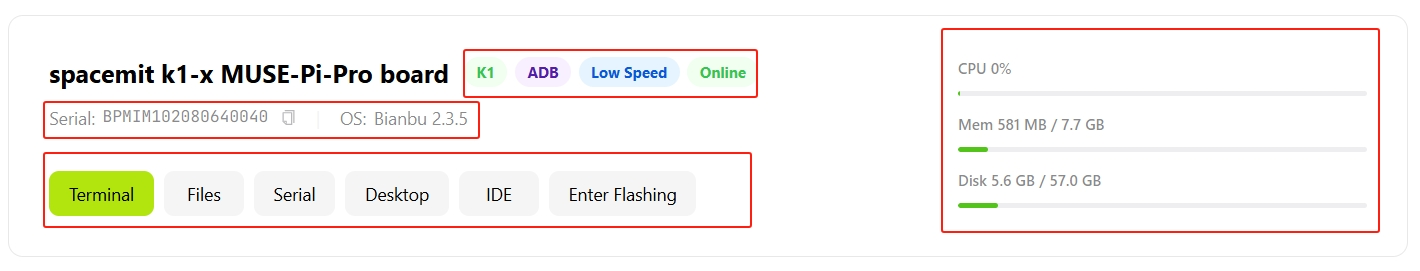
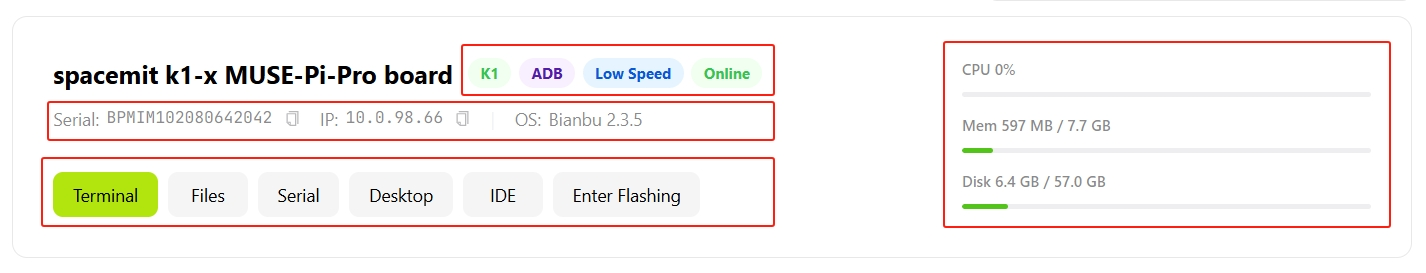
docs(studio): update guides and screenshots

diff --git a/en/studio/user_guide/dev_tools/flash.md b/en/studio/user_guide/dev_tools/flash.md
@@ -121,7 +121,7 @@ Writes a system image to an SD card, allowing the device to boot from the card. 
 
    ![Select SD card](../../static/sdcard_1.png)
 
-   > If the list is empty, confirm the SD card is inserted and click the refresh button to re-detect.
+   > If the list is empty, confirm the SD card is inserted and click the refresh button ⟳ to re-detect.
 
 3. **Flash Boot Card** is selected by default under **Select Operation**.
 
@@ -176,3 +176,59 @@ The procedure is the same as [SD Card Boot](#sd-card-boot), with the following d
 | System storage location | SD card | Device onboard storage |
 | Behavior after SD card removal | Cannot boot | Operates normally |
 | Typical use case | Debugging, evaluation | Mass production |
+
+## Writing Tool
+
+Writes factory configuration information, such as serial numbers and MAC addresses, to a device. Use it for production-line configuration or to verify information on an individual device.
+
+### Writing Tool Procedure
+
+1. Go to **Development Tools → Key Writing Tool**.
+
+   ![Writing Tool entry](../../static/key_write_00.png)
+
+2. Select the target device.
+
+   In the **Select Device** drop-down list, select the device to configure.
+
+   ![Select Device](../../static/key_write_01.png)
+
+   > If the list is empty, confirm that the device is connected and in flashing mode, then click the refresh button ⟳ on the right to scan again.
+
+3. (Optional) Configure fields.
+
+   To customize the fields displayed in the table, click **Configure Fields** to open the field configuration panel. In the panel, you can:
+
+   ![Configure Fields](../../static/key_write_03.png)
+
+   - Use the **Enabled** switch to control whether a field is shown in the table.
+   - Click the edit icon **✎** to change a field's description or storage medium.
+   - Click the delete icon **🗑** icon to remove a field.
+   - Click **Add Field** to add a custom field.
+   - Click **Restore Default** to restore the default field list.
+
+   Click **Save** to apply the changes, or **Cancel** to discard them.
+
+4. Read the current device configuration.
+
+   Click **Start Reading**. The tool reads all configuration fields from the device and fills the table.
+
+   ![读号](../../static/key_write_02.png)
+
+   After the read operation completes, the table displays the following columns:
+
+   - **Property**: Technical identifier for the field, such as `product_name` or `serial#`.
+   - **Description**: Readable description of the field.
+   - **Storage Medium**: Storage location; `eeprom` is the default.
+   - **Value**: Current value stored on the device.
+   - **Status**: Result of the read operation, showing success (✓) or failure (✗).
+
+   Common fields include the hardware board model, device serial number, MAC address, and manufacturing date. The refresh button ⟳ beside each field reads that field again.
+
+5. Edit and write configuration.
+
+   Edit the required values in the **Value** column, select the check box for each field to write, then click **Start Writing**.
+
+   After the write operation completes, the **Status** column shows the result for each field.
+
+   > After writing, click **Start Reading** again to verify that the configuration was written correctly.

diff --git a/zh/studio/user_guide/dev_tools/flash.md b/zh/studio/user_guide/dev_tools/flash.md
@@ -121,7 +121,7 @@ sidebar_position: 1
 
    ![选择 SD 卡设备](../../static/sdcard_1.png)
 
-   > 若列表为空，请确认 SD 卡已插入读卡器，并点击右侧刷新按钮重新检测。
+   > 若列表为空，请确认 SD 卡已插入读卡器，并点击右侧刷新按钮 ⟳ 重新检测。
 
 3. 在 **选择操作** 中已默认选择 **烧录启动卡**
 
@@ -176,3 +176,61 @@ sidebar_position: 1
 | 系统运行位置 | SD 卡 | 设备内置存储 |
 | 拔卡后 | 无法启动 | 正常运行 |
 | 适用场景 | 调试、试用 | 批量生产 |
+
+## 写号工具
+
+向设备写入序列号、MAC 地址等出厂配置信息，适用于产线批量配置或单台设备信息校验。
+
+### 写号工具 — 操作步骤
+
+1. 进入 **开发工具 → 写号工具**
+
+   ![写号工具入口](../../static/key_write_00.png)
+
+2. 选择目标设备
+
+   在 **选择设备** 下拉菜单中选择需要配置的设备。
+
+   ![选择设备](../../static/key_write_01.png)
+
+   > 若列表为空，请确认设备已连接并切换至刷机模式，然后点击右侧刷新按钮 ⟳ 重新检测。
+
+3. （可选）配置字段
+
+   如需自定义表格中显示的属性字段，点击 **配置字段** 进入字段配置面板。
+
+   ![配置字段](../../static/key_write_03.png)
+
+   在配置面板中可以：
+   
+   - 通过 **启用** 开关控制各属性是否在表格中显示
+   - 点击每行右侧的编辑图标 **✎** 修改属性的描述或存储介质
+   - 点击删除图标 **🗑** 移除该字段
+   - 点击 **新增字段** 添加自定义属性
+   - 点击 **恢复默认** 将字段列表恢复为系统默认配置
+
+   配置完成后点击 **保存**，或点击 **取消** 放弃修改。
+
+4. 读取设备当前配置
+
+   点击 **开始读号**，工具将从设备读取所有配置字段并填充到表格中。
+
+   ![读号](../../static/key_write_02.png)
+
+   读取完成后，表格显示以下五列信息：
+
+   - **属性**：字段的技术标识符（如 `product_name`、`serial#`）
+   - **描述**：字段的说明（如"硬件板型号""设备序列号"）
+   - **存储介质**：存储位置，默认为 `eeprom`
+   - **值**：设备中当前存储的值
+   - **状态**：读取结果，显示成功（✓）或失败（✗）
+
+   常见属性包括硬件板型号、设备序列号、网卡物理地址、生产日期等出厂信息。每个属性右侧提供单独的刷新按钮 ⟳，可单独重新读取该字段的值。
+
+5. 编辑并写入配置
+
+   在表格的 **值** 列中编辑需要修改的属性值，勾选对应行的复选框，然后点击 **开始写号**。
+
+   写入完成后，**状态** 列会显示各字段的写入结果。
+
+   > 建议写入完成后再次点击 **开始读号** 进行校验，确认配置已正确写入设备。

diff --git a/en/studio/user_guide/app_store.md b/en/studio/user_guide/app_store.md
@@ -4,8 +4,57 @@ sidebar_position: 7
 
 # App Center
 
-> Note: This feature is under development.
-
 ## Overview
 
-App Center provides browsing, installation, and management of applications and tools for the SpacemiT platform.
+App Center supports the browsing, installation, and management of applications and tools for the SpacemiT platform. It is organized into the **Online Store** and **Installed Apps** pages.
+
+![App Center](../static/app_store.png)
+
+## Online Store
+
+The Online Store displays all available applications in the ecosystem.
+
+A search box in the upper-right corner enables apps to be located by name.
+
+Each app card displays the following information:
+
+- App name and version
+- Publisher
+- Summary
+- Installation status, such as **Installed** or **Running**
+
+Selecting an app card displays its details in the panel on the right, including:
+
+![Online Store](../static/app_store_00.png)
+
+- App icon, name, and current status, such as **Running**
+- Version, publisher, and package size
+- Action buttons: **Open** / **Uninstall** for installed apps, or **Install to device** for apps that are not installed
+- Complete feature description
+- Supported systems and architectures
+
+## Installed Apps
+
+The Installed Apps page lists and manages all applications currently installed on the device.
+
+![Installed Apps](../static/app_store_01.png)
+
+Select **Refresh** to retrieve the latest status for each app.
+
+The list contains the following columns:
+
+- **App**: App name and summary
+- **Version**: Currently installed version
+- **Architecture**: Runtime architecture
+- **Status**: Runtime status, such as **Running**, **Installed**
+- **Port / Access**: Service listening port or access point
+- **Actions**: Actions available for the app
+
+The available actions for each app depend on its running status:
+
+- **Stop**: Stop a running app
+- **Open**: Access the app in a browser or window
+- **Config**: Modify the app configuration
+- **Default**: Restore the default configuration
+- **Uninstall**: Remove the app from the device
+s

diff --git a/zh/studio/user_guide/app_store.md b/zh/studio/user_guide/app_store.md
@@ -4,8 +4,56 @@ sidebar_position: 7
 
 # 应用中心
 
-> 注：持续开发中...
-
 ## 概述
 
-应用中心提供适配 SpacemiT 平台的应用和工具的浏览、安装与管理功能。
+应用中心提供适配 SpacemiT 平台的应用和工具的浏览、安装与管理功能，分为 **在线商店** 和 **已安装应用** 两个页面。
+
+![应用中心](../static/app_store.png)
+
+## 在线商店
+
+在线商店展示所有可用的生态应用。
+
+界面右上角提供搜索框，可按应用名称快速定位。
+
+每个应用卡片显示以下信息：
+
+- 应用名称与版本
+- 发布者
+- 简介摘要
+- 安装状态（如 **已安装**、**运行中**）
+
+点击应用卡片后，右侧面板显示该应用的详情，包括：
+
+![在线商店](../static/app_store_00.png)
+
+- 应用图标、名称、当前运行状态（如 **运行中**）
+- 版本、发布者、包大小
+- 操作按钮：**打开** / **卸载**（已安装应用）或 **安装到设备**（未安装应用）
+- 完整功能描述
+- 支持的系统和系统
+
+## 已安装应用
+
+已安装应用页面以列表形式管理当前设备上的所有已安装应用。
+
+![在线商店](../static/app_store_01.png)
+
+点击 **⟳ 刷新** 可重新获取各应用的最新状态。
+
+列表包含以下列：
+
+- **应用**：应用名称与简介
+- **版本**：当前安装版本
+- **架构**：运行架构
+- **状态**：运行状态（如 **运行中**，**已安装**）
+- **端口 / 访问**：服务监听端口或访问入口
+- **操作**：可对该应用执行的操作
+
+每个应用的可用操作视运行状态而定：
+
+- **停止**：停止正在运行的应用
+- **打开**：在浏览器或窗口中访问应用
+- **配置**：修改应用配置
+- **默认配置**：恢复默认配置
+- **卸载**：从设备卸载该应用

diff --git a/en/studio/user_guide/devices.md b/en/studio/user_guide/devices.md
@@ -49,6 +49,7 @@ After a device is connected successfully, the home page displays detailed inform
 After a device is connected successfully, the following information is available:
 
 - Device series and serial number
+- Device IP address (for remote access)
 - Currently installed operating system, such as Bianbu
 - Device connection method, such as ADB
 - Online/offline status
@@ -63,7 +64,7 @@ The bottom of the device panel provides shortcut buttons for common operations:
 - **[Terminal](./terminal.md#terminal-sessions)**: Opens a terminal session for the device
 - **[Files](./terminal.md#file-management)**: Opens device file management
 - **[Serial Connection](./dev_tools/system_tools.md#serial-connection)**: Communicates with the device over a serial connection for low-level debugging and log viewing
-- **Remote Desktop**: Accesses the device graphical interface through VNC/RDP
+- **Desktop**: Accesses the device graphical interface through VNC/RDP
   ![](../static/remote.png) 
 - **IDE**: Opens the device integrated development environment in Studio
   ![IDE](../static/ide.png)
@@ -77,10 +78,12 @@ Connected devices can be assigned custom names to distinguish them when managing
 
 ### New Device
 
-To add a device, click **+ New Device** and follow the steps in the **Connect Your Device** dialog to connect a local device.
-At the bottom of the dialog, select either USB or SSH as the connection method.
+To add a device, click **+ New Device** and follow the instructions in the **Connect Your Device** dialog to complete the connection.
+At the bottom of the dialog, select a connection method: Cloud, SSH, or USB.
 
 ![New device](../static/device_03.png)
+
+Newly added devices appear in the **Device** list.
 
 ## Activity
 

diff --git a/en/studio/quick_start.md b/en/studio/quick_start.md
@@ -41,11 +41,11 @@ You can login using the following methods:
 
 ## Driver Installation
 
-When you first start SpacemiT Studio, the home page displays a **Service not started** message if the driver is not installed:
+When you first start SpacemiT Studio, if the driver is not installed, the home page displays a **Service not started** message and the driver installation wizard opens automatically:
 
 ![Home page with no driver or device](./static/initial.png)
 
-Click the message to open the SpacemiT Studio driver installation wizard, which provides the following options:
+If the wizard does not open automatically, click the **Service not started** message to open it manually. The wizard provides the following options:
 
 <img src="./static/driver_00.png" alt="Driver installation wizard" width="400">
 
@@ -120,7 +120,7 @@ After submission, the page displays a **Submitted Successfully** message.
 
 > If submission fails, check your network connection and try again.
 
-![Feedback dialog](./static/feedback.png)
+<img src="./static/feedback.png" alt="Feedback dialog" width="400">
 
 ## Connect a Device
 

diff --git a/zh/studio/quick_start.md b/zh/studio/quick_start.md
@@ -41,11 +41,11 @@ sidebar_position: 2
 
 ## 安装驱动
 
-首次启动 SpacemiT Studio 时，如果尚未安装驱动，首页显示 **服务未启动** 提示：
+首次启动 SpacemiT Studio 时，如果尚未安装驱动，首页将显示 **服务未启动** 提示：
 
 ![首页 - 无驱动无设备](./static/initial.png)
 
-点击提示后，将弹出 SpacemiT Studio 的驱动安装引导窗口，提供以下三个操作：
+同时，驱动安装引导窗口会自动弹出。若该窗口未自动弹出，可点击 **服务未启动** 提示手动打开。驱动安装引导提供以下三种操作方式：
 
 <img src="./static/driver_00.png" alt="驱动安装引导" width="400">
 
@@ -121,7 +121,7 @@ sidebar_position: 2
 
 > 如果提交失败，请检查网络状况后重试。
 
-![](./static/feedback.png)
+<img src="./static/feedback.png" alt="意见反馈" width="400">
 
 ## 连接设备
 

diff --git a/zh/studio/user_guide/devices.md b/zh/studio/user_guide/devices.md
@@ -49,6 +49,7 @@ sidebar_position: 1
 连接成功后可查看以下信息：
 
 - 设备系列与序列号
+- 设备 IP 地址（用于远程访问）
 - 当前已安装的系统（如 Bianbu）
 - 设备连接方式（如 ADB）
 - 在线 / 离线状态
@@ -77,10 +78,12 @@ sidebar_position: 1
 
 ### 新设备
 
-如需增加新设备，可点击 **+新设备** 按键，在弹出的"连接您的设备"窗口中按步骤完成本地设备连接。
-窗口底部切换可选择连接方式 USB 或 SSH。
+如需增加新设备，可点击 **+新设备** 按键，在弹出的 **连接您的设备** 窗口中按步骤完成设备连接。
+窗口底部可切换连接方式：Cloud、SSH 或 USB。
 
 ![新设备](../static/device_03.png)  
+
+新增的设备会显示在 **当前设备** 列表中。
 
 ## 动态
 

diff --git a/en/studio/user_guide/dev_tools/system_tools.md b/en/studio/user_guide/dev_tools/system_tools.md
@@ -22,6 +22,7 @@ A headless initialization tool that presets system parameters before the device'
    - **Hostname**: A custom device name. If left blank, the hostname is generated automatically.
    - **Language / Timezone**: The system display language and timezone. The timezone defaults to UTC.
    - **WiFi**: Optional. Enter the SSID and password (WPA/WPA2-PSK supported) to connect automatically on first boot.
+   - **Logo Configuration**: Upload a logo image to display during device boot. Only BMP format is supported, with 8/24/32-bit color depth and a maximum size of 1MB.
 
 3. Click **Push and Run**. The configuration is written to the connected device and applied automatically on first boot.
 

diff --git a/zh/studio/user_guide/dev_tools/system_tools.md b/zh/studio/user_guide/dev_tools/system_tools.md
@@ -22,6 +22,7 @@ sidebar_position: 2
    - **主机名**：自定义设备名称，留空则自动生成。
    - **语言 / 时区**：系统显示语言与时区，时区默认为 UTC。
    - **WiFi**：可选，填写 SSID 和密码（支持 WPA/WPA2-PSK），设备首次启动时自动连接。
+   - **LOGO 配置**：上传设备启动时显示的 LOGO 图片，仅支持 BMP 格式，色深为 8/24/32 位，大小不超过 1MB。
 
 3. 点击 **推送并执行**，配置将写入已连接的设备，首次启动时自动应用
 
